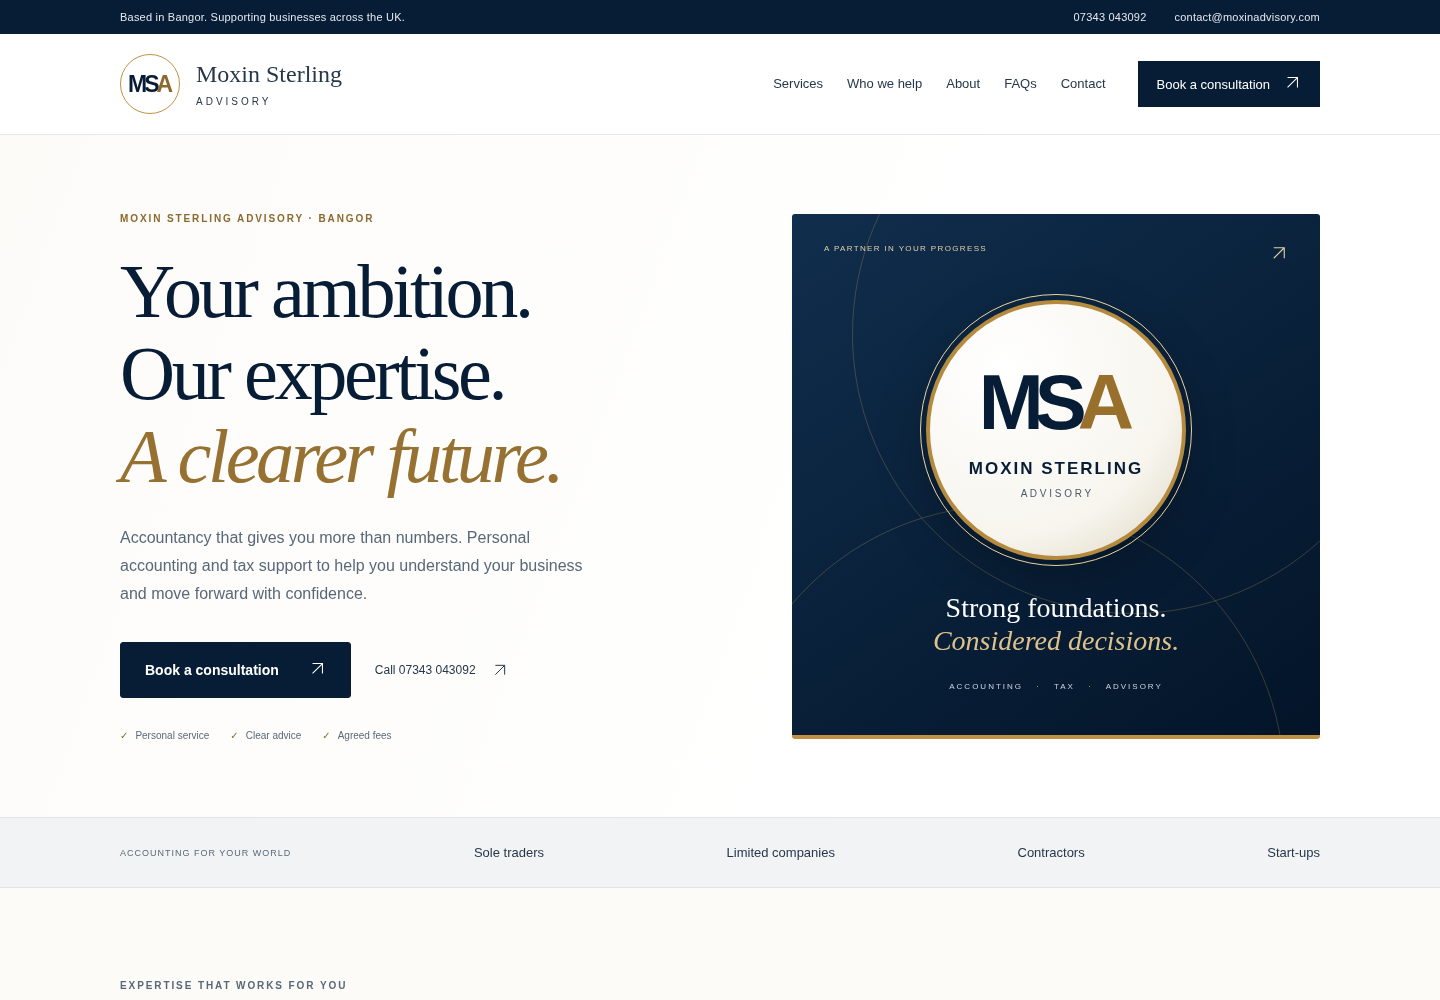
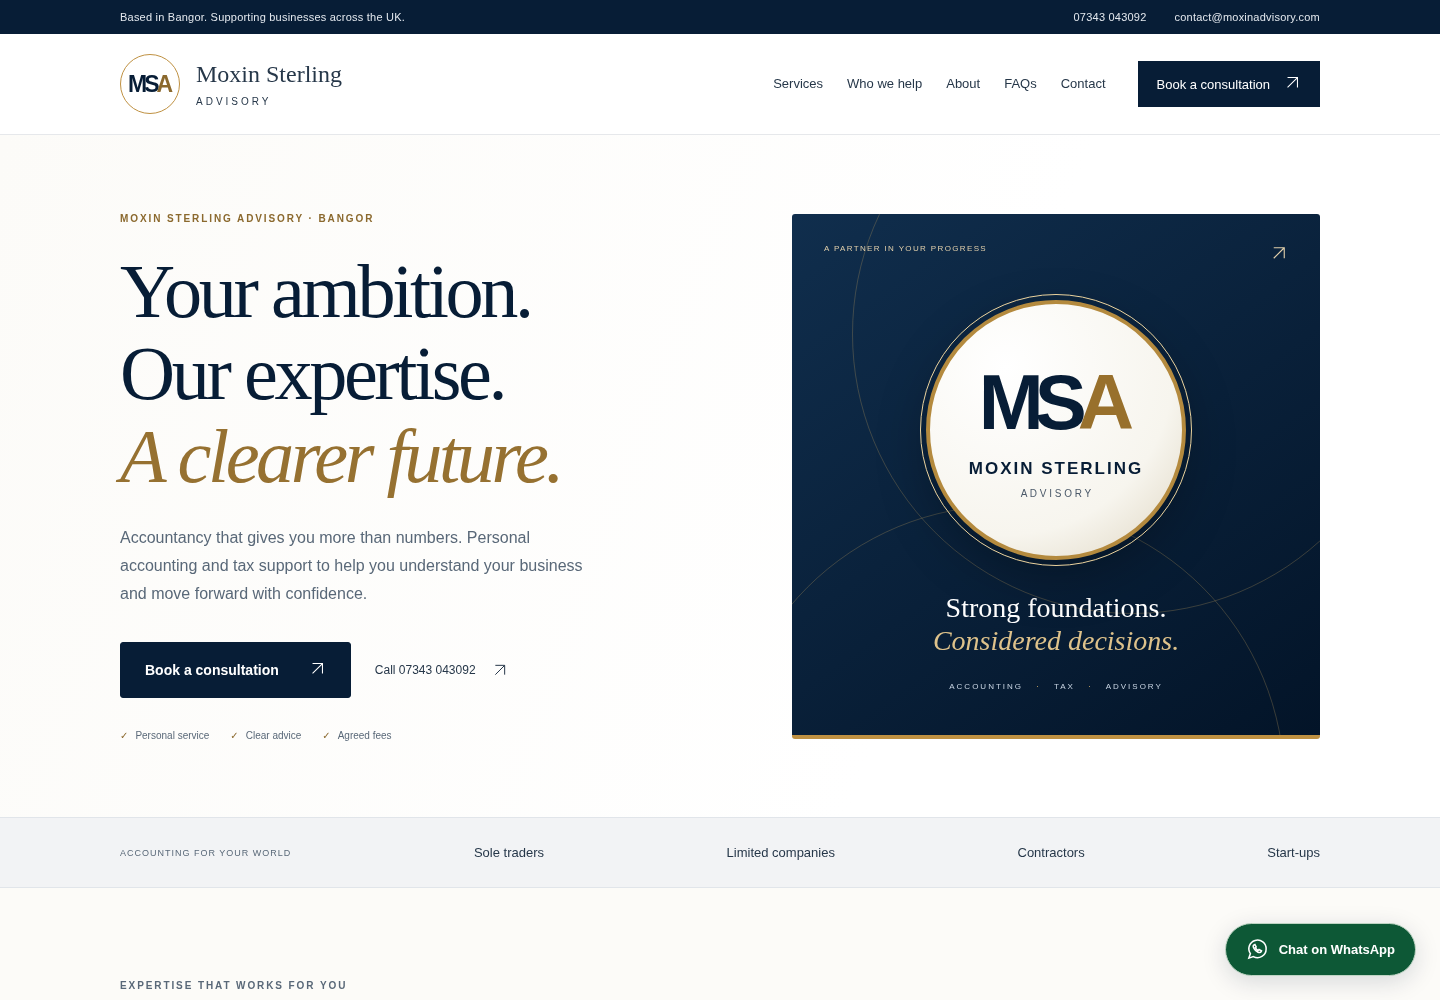
Add direct WhatsApp chat for confirmed business number

Changed region(s): [[0.8438, 0.899, 1.0, 0.992]]

diff --git a/src/styles/global.css b/src/styles/global.css
@@ -968,3 +968,5 @@ h1,h2{letter-spacing:-.045em}h2 em{color:#8b692e;font-weight:400}.contact-bar{ba
 @media(max-width:760px){.contact-bar .container{justify-content:space-between;gap:12px;font-size:10px}.contact-bar span{display:none}.header{padding:16px 24px}.hero-grid{grid-template-columns:1fr;padding-block:40px;gap:35px}.hero-copy h1{font-size:clamp(2.8rem,11vw,4rem)}.hero-lead{font-size:15px}.brand-scene{min-height:470px;padding:25px}.brand-seal{margin-top:30px}.scene-caption{font-size:26px}.hero-assurance{gap:14px;font-size:9px}.audience-ribbon .container{flex-wrap:wrap;justify-content:flex-start;gap:18px 25px}.audience-ribbon span{width:100%}.audience-ribbon strong{font-size:12px}.new-services{grid-template-columns:1fr}.new-service{padding:25px}.new-service h3{font-size:25px}.service-top{margin-bottom:20px}.why-grid,.founder-grid{grid-template-columns:1fr;gap:30px}.why-section,.founder-section{padding-block:50px}.client-cards,.process-grid{grid-template-columns:1fr}.client-cards{gap:18px}.client-cards h3{margin-top:25px}.client-cards article{padding:28px}.process-grid{gap:22px}.process-grid article>span{margin-bottom:16px}.founder-portrait{min-height:320px}.faq-section{padding-block:50px}.invitation{padding-block:45px;padding-inline:0;margin-bottom:0}.page-hero{padding-inline:22px;margin-top:20px}.contact-layout form{padding:22px}.footer-top{gap:28px}.contact-layout .email{font-size:17px}}
 
 .original-logo{display:block;object-fit:contain;aspect-ratio:1}.header-logo{width:65px;height:65px}.hero-logo{width:260px;height:260px;margin-top:38px;border-radius:50%}@media(max-width:760px){.header-logo{width:48px;height:48px}.hero-logo{width:230px;height:230px;margin-top:30px}}
+
+.whatsapp-float{position:fixed;right:24px;bottom:24px;z-index:40;display:inline-flex;align-items:center;gap:10px;min-height:52px;padding:14px 20px;border:1px solid #bed4c3;border-radius:30px;background:#0d5836;color:white;box-shadow:0 6px 24px #071d3626;font-size:13px;font-weight:600;text-decoration:none}.whatsapp-float:hover{background:#073f26}.contact-methods .whatsapp-contact{font-size:18px}.contact-methods .whatsapp-contact span{display:inline;color:inherit;font-size:18px}.footer{padding-bottom:76px}@media(max-width:760px){.whatsapp-float{right:16px;bottom:max(16px,env(safe-area-inset-bottom));font-size:12px;min-height:48px;padding:12px 16px}.footer{padding-bottom:85px}}@media print{.whatsapp-float{display:none}}

diff --git a/src/config.ts b/src/config.ts
@@ -5,6 +5,7 @@ export const business = {
   email: "contact@moxinadvisory.com",
   phone: "07343 043092",
   phoneLink: "+447343043092",
+  whatsappUrl: "https://wa.me/447343043092",
   address: "15 Pen Castell, Bangor, LL57 1NX",
   companyNumber: null,
   registeredOffice: null,
